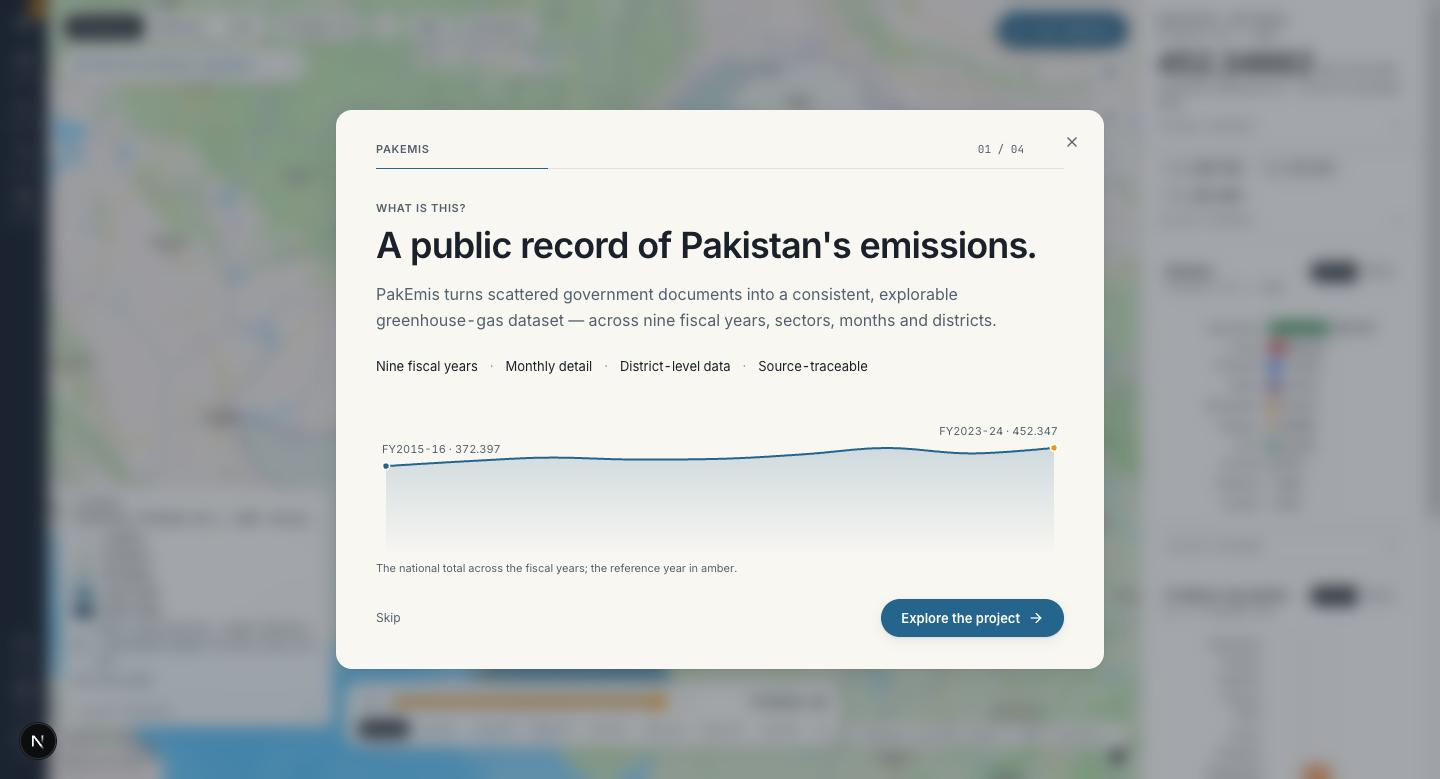
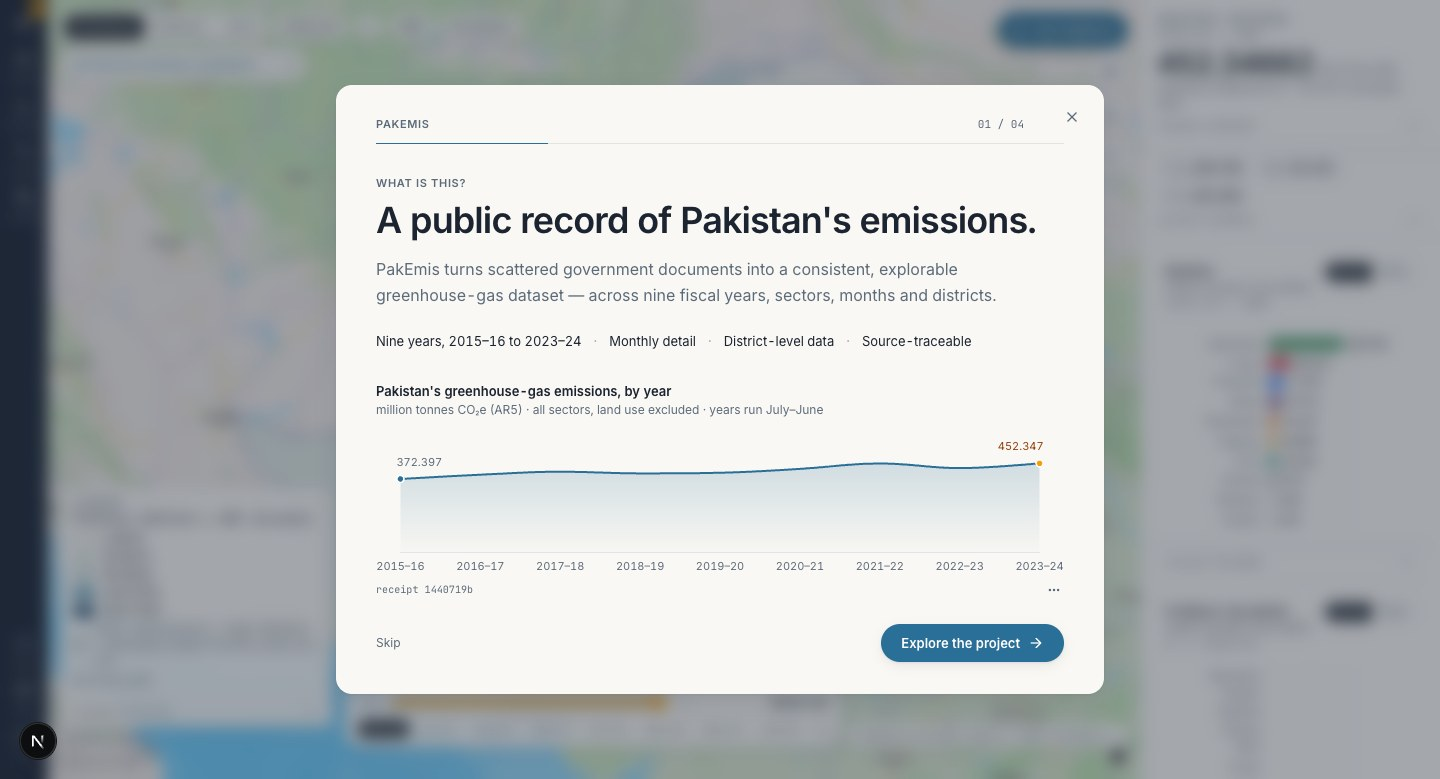
Labels: a limitation message names a period by its short label (the contract text stays verbatim); the intro's sector figure sized to fit a 779 px viewport; screenshots 16, 16b, 16c refreshed from the headless render
Claude-Session: https://claude.ai/code/session_01GGTmKsyngnm5TwQoS12nNY

diff --git a/web/src/components/shell/WelcomeModal.tsx b/web/src/components/shell/WelcomeModal.tsx
@@ -240,14 +240,14 @@ function SectorFigure() {
   const period = periodShort(labels, env?.context.periods?.[0] ?? state.period);
   const unit = env?.values[0]?.unit ? unitWords(env.values[0].unit) : "";
   return (
-    <figure className="m-0 mt-8" data-testid="intro-sectors">
+    <figure className="m-0 mt-6" data-testid="intro-sectors">
       <figcaption>
         <div className="text-sm font-semibold text-ink" data-testid="intro-sectors-title">Where {period}&rsquo;s emissions came from</div>
         <div className="mt-0.5 text-xs text-muted">{unit ? `${unit}, reference configuration` : "reference configuration"}</div>
       </figcaption>
       {env ? (
         <>
-          <BarChart env={env} horizontal height={Math.max(120, env.values.length * 22)} labels={labels} dims={dims} compact={false} />
+          <BarChart env={env} horizontal height={Math.max(110, env.values.length * 17 + 8)} labels={labels} dims={dims} compact={false} />
           <ReceiptFooter env={env} className="mt-1" />
         </>
       ) : bySector.error ? (

diff --git a/api/pakemis_api/app.py b/api/pakemis_api/app.py
@@ -312,12 +312,21 @@ class Service:
         months = {}
         for r in self.release.dim("dim_month"):
             months[r["month"]] = "%s %s" % (MONTH_ABBR[int(r["calendar_month"]) - 1], r["calendar_year"])
+        # a limitation message that names a period by its id ("... for FY2023-24 only") is worded
+        # here with the period's short label; the contract's own text stays verbatim in known_limitations
+        id_to_short = sorted(((pid, e["short"]) for pid, e in periods.items()), key=lambda kv: -len(kv[0]))
+
+        def worded(message):
+            for pid, short in id_to_short:
+                message = message.replace(pid, short)
+            return message
+
         return {
             "configurations": configurations,
             "periods": periods,
             "months": months,
             "views": dict(VIEW_MEANINGS),
-            "limitations": {l["id"]: l["message"] for l in c["known_limitations"]},
+            "limitations": {l["id"]: worded(l["message"]) for l in c["known_limitations"]},
             "gases": {g: g.translate(SUBSCRIPT_DIGITS) for g in sorted(self.release.dim_values("dim_gas", "gas"))},
             "sectors": {m: ACRONYMS.get(m, humanise(m)) for m in sorted(self.release.dim_values("dim_stream", "module"))},
             "geographies": {r["geography_id"]: r["name"] for r in self.release.dim("dim_geography")},

diff --git a/api/tests/test_release_dims.py b/api/tests/test_release_dims.py
@@ -131,3 +131,17 @@ def test_period_label_helpers():
     assert period_short("FY2023-24") == "2023–24" and period_short("CY1990") == "1990" and period_short("2001") == "2001"
     other = period_labels({"basis": "other", "label": "X1", "period_start": "2001-01-01", "period_end": "2001-03-31"})
     assert other == {"label": "X1 (1 Jan 2001 – 31 Mar 2001)", "short": "X1", "basis_note": ""}
+
+
+def test_limitation_labels_name_periods_by_their_short_label(release):
+    """labels.limitations is the wording a person reads: a period id inside a message becomes the
+    short label; the contract's known_limitations keep the message verbatim."""
+    labels = release["labels"]
+    raw = {l["id"]: l["message"] for l in release["known_limitations"]}
+    assert set(labels["limitations"]) == set(raw)
+    ids = set(labels["periods"])
+    for lid, message in labels["limitations"].items():
+        assert not any(pid in message for pid in ids), (lid, message)
+    assert "FY2023-24" in raw["config_S_residential_only"]
+    assert "2023–24" in labels["limitations"]["config_S_residential_only"] and "FY" not in labels["limitations"]["config_S_residential_only"]
+    assert labels["limitations"]["config_S_residential_only"] == raw["config_S_residential_only"].replace("FY2023-24", "2023–24")
